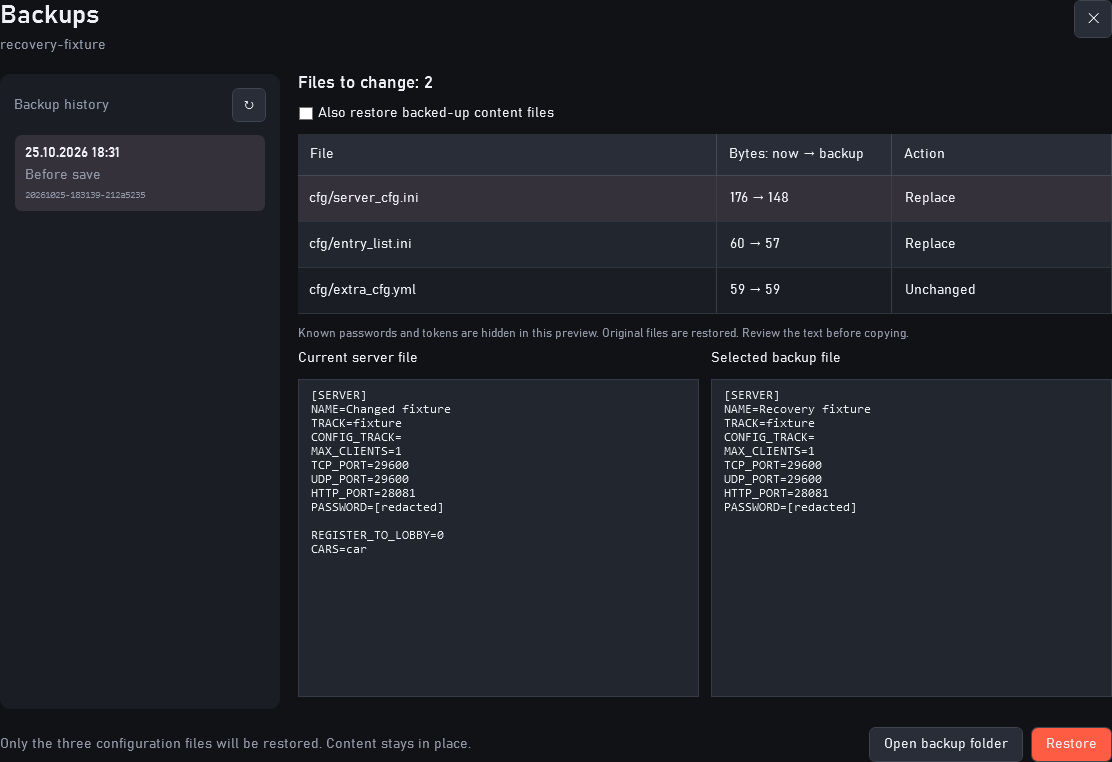
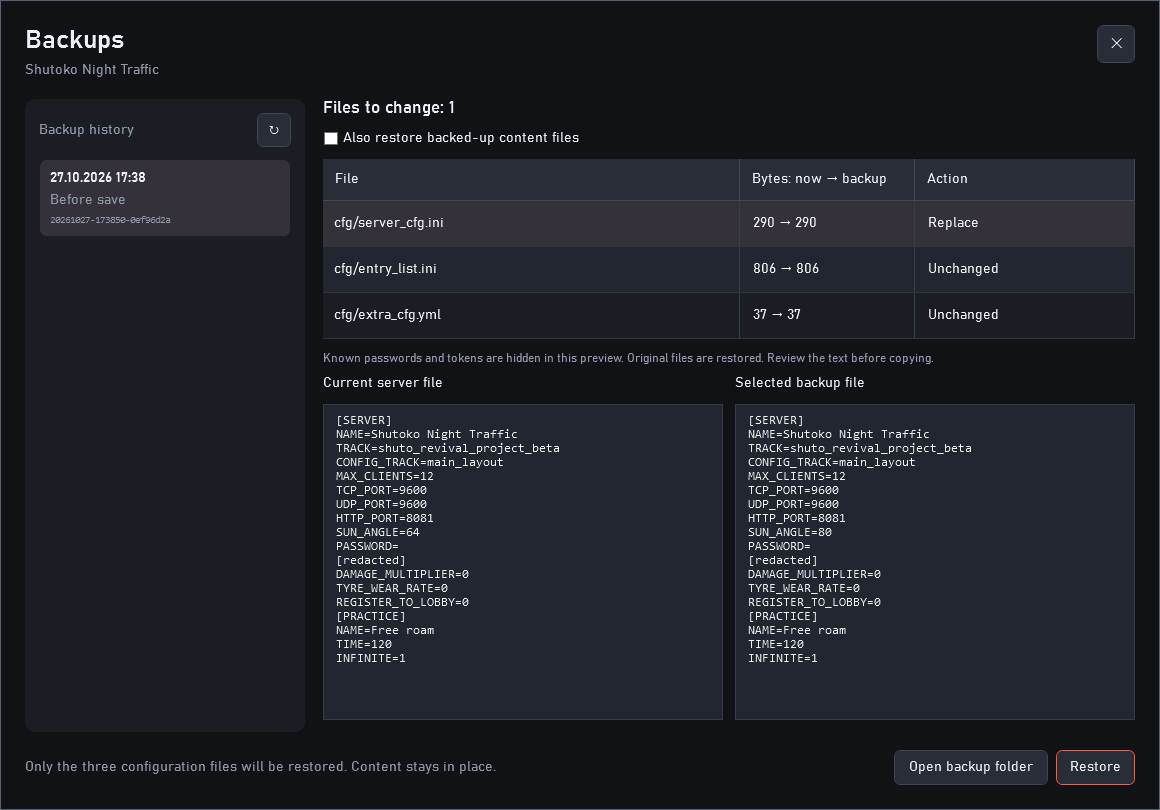
Refresh README with current 0.8 screenshots and feature descriptions

diff --git a/README.md b/README.md
@@ -7,18 +7,24 @@
 [![.NET 10](https://img.shields.io/badge/.NET-10-512BD4?logo=dotnet&logoColor=white)](#build-from-source)
 [![Windows build and core tests](https://img.shields.io/github/actions/workflow/status/drkreis/ac-server-manager/build.yml?branch=master&event=push&label=build%20%26%20tests&logo=github)](https://github.com/drkreis/ac-server-manager/actions/workflows/build.yml?query=branch%3Amaster+event%3Apush)
 
-**v0.8.0 · Preview** is a Windows application for creating and configuring local [AssettoServer](https://assettoserver.org/) installations. Its main use case is free roam with friends and AI traffic. This is the source version; available download versions are listed in Releases and may differ from the current checkout.
+**[v0.8.0 · Preview](https://github.com/drkreis/ac-server-manager/releases/tag/v0.8.0-preview)** is a Windows application for creating and configuring local [AssettoServer](https://assettoserver.org/) installations. Its main use case is free roam with friends and AI traffic. Version 0.8 adds reusable presets, server copying and a refined dark interface. This is the source version; available download versions are listed in Releases and may differ from the current checkout.
 
 The interface is available in Russian and English. The application is built with C#, WPF and .NET 10.
 
 ## Screenshots
 
-Server overview with track selection, configuration and start/stop controls in **v0.7.0 Preview**.
+The English interface in **v0.8.0 Preview**, showing example servers and installed game content. The screenshots use demonstration paths and settings.
+
+**Server overview** — choose a track layout, edit settings and see server status. The current theme uses orange button outlines, slim muted scrollbars and subtle window borders.
 
 ![AC Server Manager: server overview](docs/screenshots/overview-en.png)
 
 <details>
-<summary>More screenshots: car catalog, skins and backup recovery</summary>
+<summary>More screenshots: slots, catalog, skins, presets, copying and backups</summary>
+
+**Cars and slots** — numbered entry-list slots, skin and role selection, and controls for reordering cars.
+
+![AC Server Manager 0.8: cars, skins and slot roles](docs/screenshots/slots-en.png)
 
 **Car catalog** — browse installed content and add cars to server slots.
 
@@ -28,11 +34,25 @@ Server overview with track selection, configuration and start/stop controls in *
 
 ![AC Server Manager: car details and skin selection](docs/screenshots/car-details-en.png)
 
-**Backup recovery** — compare configuration files before restoring. This screenshot uses a test server with sample data.
+**Your presets** — keep named track, car and basic-setting combinations without passwords, ports or local paths.
+
+![AC Server Manager 0.8: reusable preset library](docs/screenshots/presets-en.png)
+
+**Create server wizard** — apply a saved preset while choosing the new server's own name, folder and installation source.
+
+![AC Server Manager 0.8: creating a server with a preset](docs/screenshots/wizard-presets-en.png)
+
+**Copy server** — prepare a separate copy of a stopped server with a new folder and ports; copying advanced settings and plugins is optional.
+
+![AC Server Manager 0.8: copying a stopped server](docs/screenshots/copy-server-en.png)
+
+**Backup recovery** — compare current and backed-up configuration files before restoring.
 
 ![AC Server Manager: backup comparison and recovery](docs/screenshots/backups-en.png)
 
 </details>
+
+Game/mod previews belong to their respective creators. Game content and mods shown here are not included with the manager.
 
 ## Features
 
